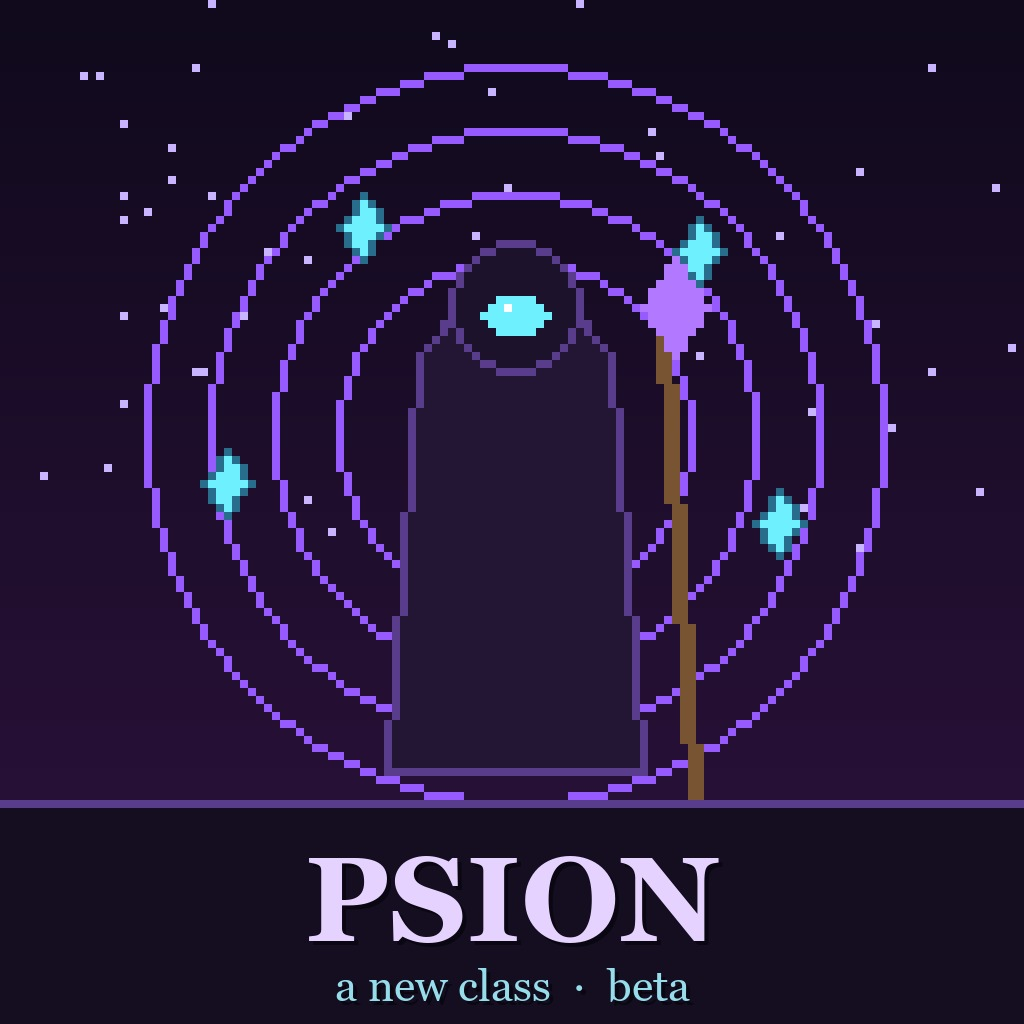
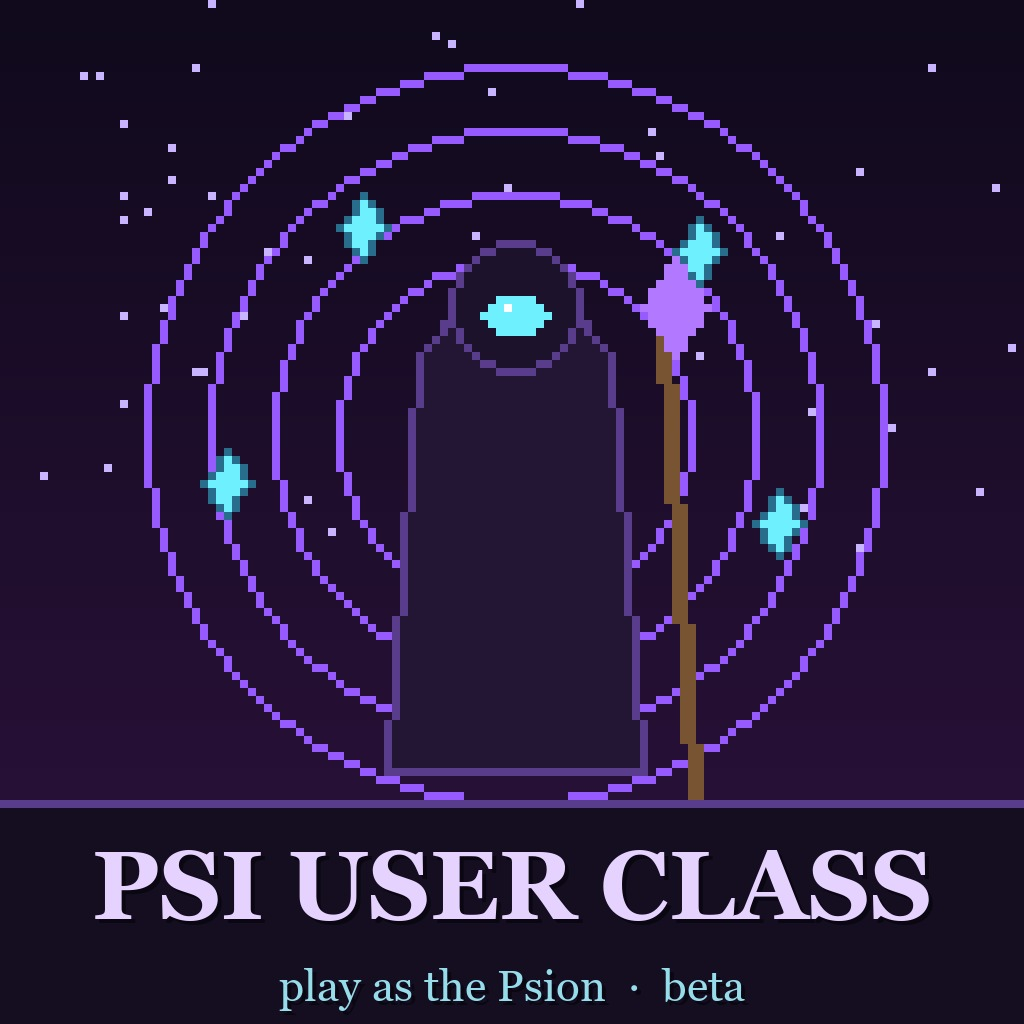
Rename the mod to PSI User Class; the in-game class stays Psion

Changed region(s): [[0.25, 0.8125, 0.9062, 1.0], [0.0938, 0.8125, 0.25, 0.9062]]

diff --git a/tools/draw_preview.py b/tools/draw_preview.py
@@ -24,9 +24,9 @@ d.polygon([(84, 32), (88, 38), (84, 44), (80, 38)], fill=(178, 120, 255, 255))  
 d.rectangle((0, 100, W, W), fill=(20, 14, 32, 255)); d.line([(0, 100), (W, 100)], fill=(90, 60, 140, 255))
 big = im.resize((1024, 1024), Image.NEAREST).convert("RGB")
 dd = ImageDraw.Draw(big)
-try: f = ImageFont.truetype("C:/Windows/Fonts/georgiab.ttf", 120); f2 = ImageFont.truetype("C:/Windows/Fonts/georgia.ttf", 44)
+try: f = ImageFont.truetype("C:/Windows/Fonts/georgiab.ttf", 96); f2 = ImageFont.truetype("C:/Windows/Fonts/georgia.ttf", 44)
 except OSError: f = f2 = ImageFont.load_default()
-for txt, font, y, col in (("PSION", f, 830, (230, 210, 255)), ("a new class  ·  beta", f2, 960, (150, 220, 235))):
+for txt, font, y, col in (("PSI USER CLASS", f, 830, (230, 210, 255)), ("play as the Psion  ·  beta", f2, 960, (150, 220, 235))):
     w = dd.textlength(txt, font=font); dd.text(((1024 - w) / 2 + 4, y + 4), txt, font=font, fill=(10, 6, 18)); dd.text(((1024 - w) / 2, y), txt, font=font, fill=col)
 big.save(os.path.join(OUT, "preview.jpg"), quality=92)
 print("ok")

diff --git a/BUILD.md b/BUILD.md
@@ -1,4 +1,4 @@
-# Build
+# Build (PSI User Class)
 
 Run `dotnet build -c Release`. Set the `ElinGamePath` MSBuild property if Elin is installed elsewhere.
 
